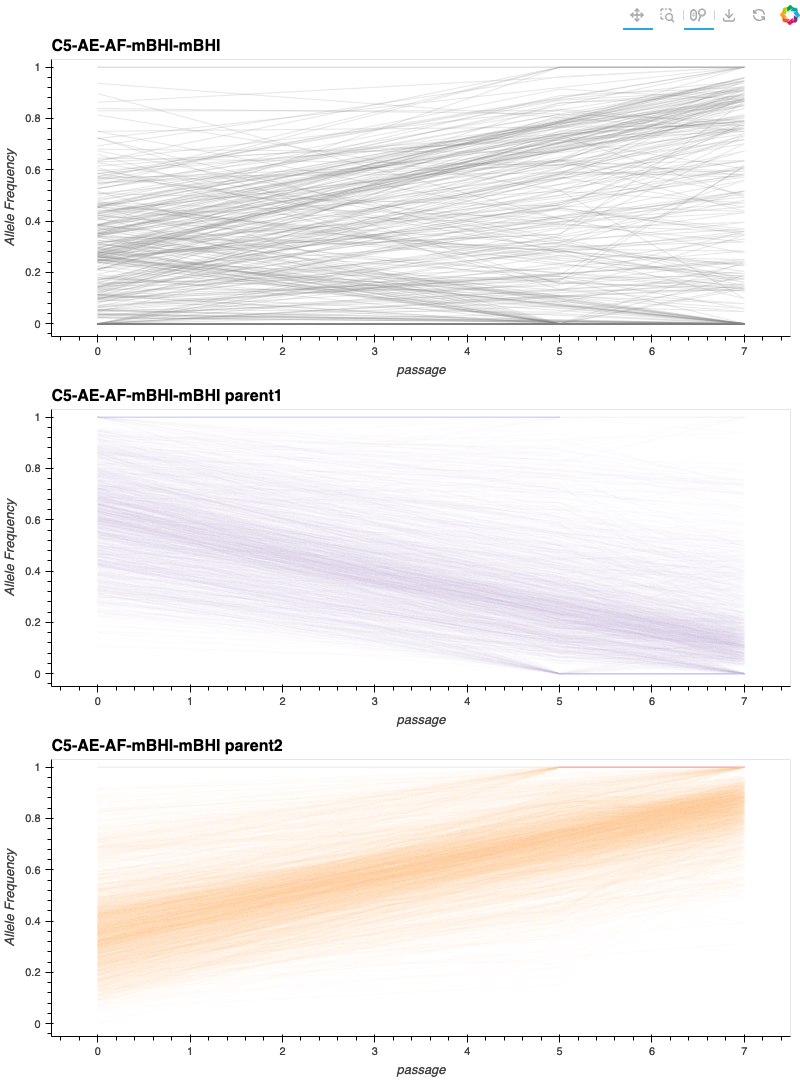
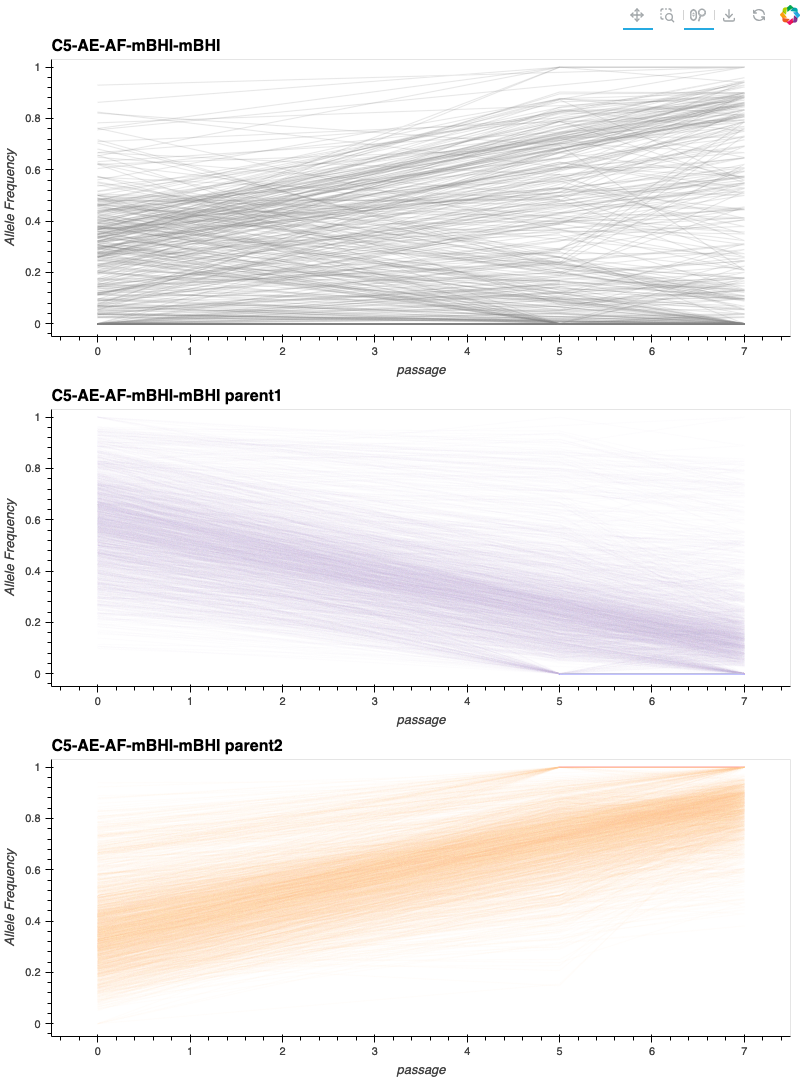
stuff

Changed region(s): [[0.125, 0.0611, 0.9375, 0.3056]]

diff --git a/workflow/scripts/make_snps_plots.py b/workflow/scripts/make_snps_plots.py
@@ -209,8 +209,8 @@ if __name__ == '__main__':
     for inoculumn in inoculumn_list:
         print(inoculumn)
         parent_samples, child_samples = get_parent_children(inoculumn)
-        parent_samples = np.intersect1d(parent_samples, freq_filtered.columns.values)
-        child_samples = np.intersect1d(child_samples, freq_filtered.columns.values)
+        parent_samples = list(np.intersect1d(parent_samples, freq_filtered.columns.values))
+        child_samples = list(np.intersect1d(child_samples, freq_filtered.columns.values))
         _, freq_filtered_in = filter_sites_across_samples(depth_filtered[parent_samples + child_samples], freq_filtered[parent_samples + child_samples].copy(), )
 
         freq_parents, parent1_snps, parent2_snps = get_main(species_dir,args.species, parent_samples, child_samples, freq_filtered_in)
@@ -244,7 +244,7 @@ if __name__ == '__main__':
            # print('go', freq_filtered_mesocosm_rand) 
             if i == -1:
                 p = make_mesocosm_timecourse(freq_filtered_mesocosm_rand, title = mesocosm )
-            print(p)
+#            print(p)
                 freq_filtered_mesocosm_marker_parent1  = get_tidy_df(freq_filtered_mesocosm.loc[parent1_snps, :], e003_metadata)
                 freq_filtered_mesocosm_marker_parent2  = get_tidy_df(freq_filtered_mesocosm.loc[parent2_snps, :], e003_metadata)
                 p1 = make_mesocosm_timecourse(freq_filtered_mesocosm_marker_parent1 ,title = f'{mesocosm} parent1',  color = bokeh.palettes.Accent[3][1], alpha = .2 )
